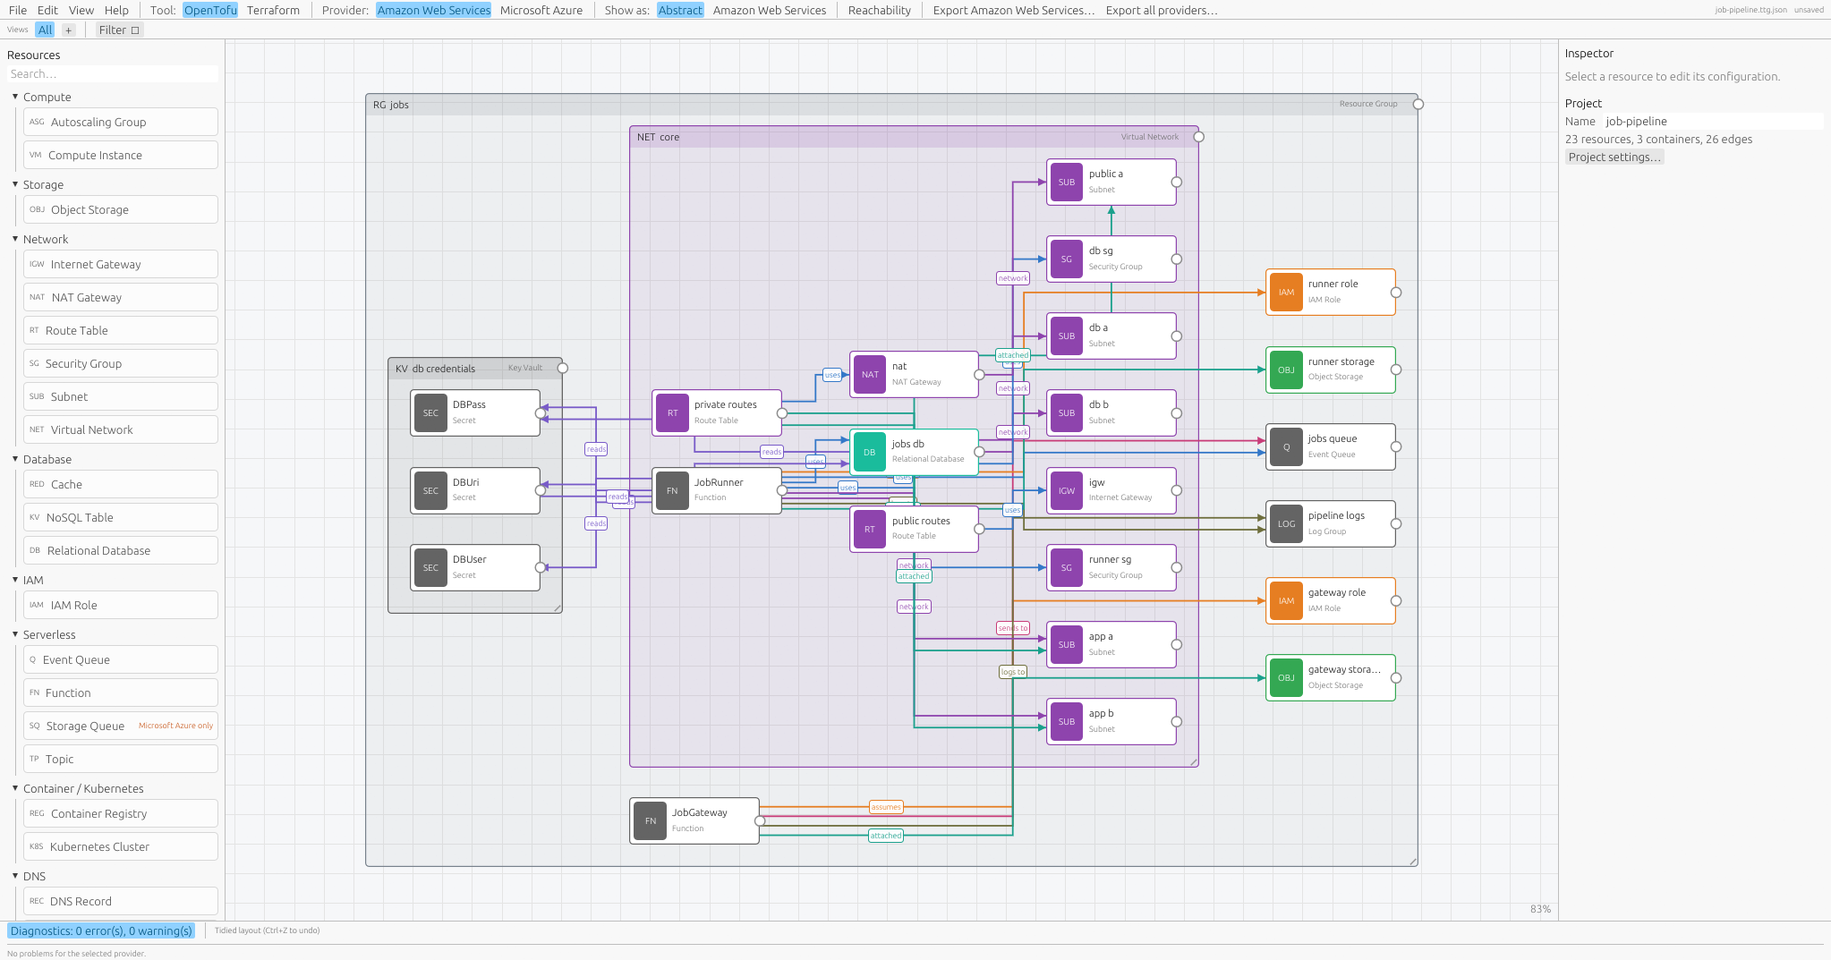
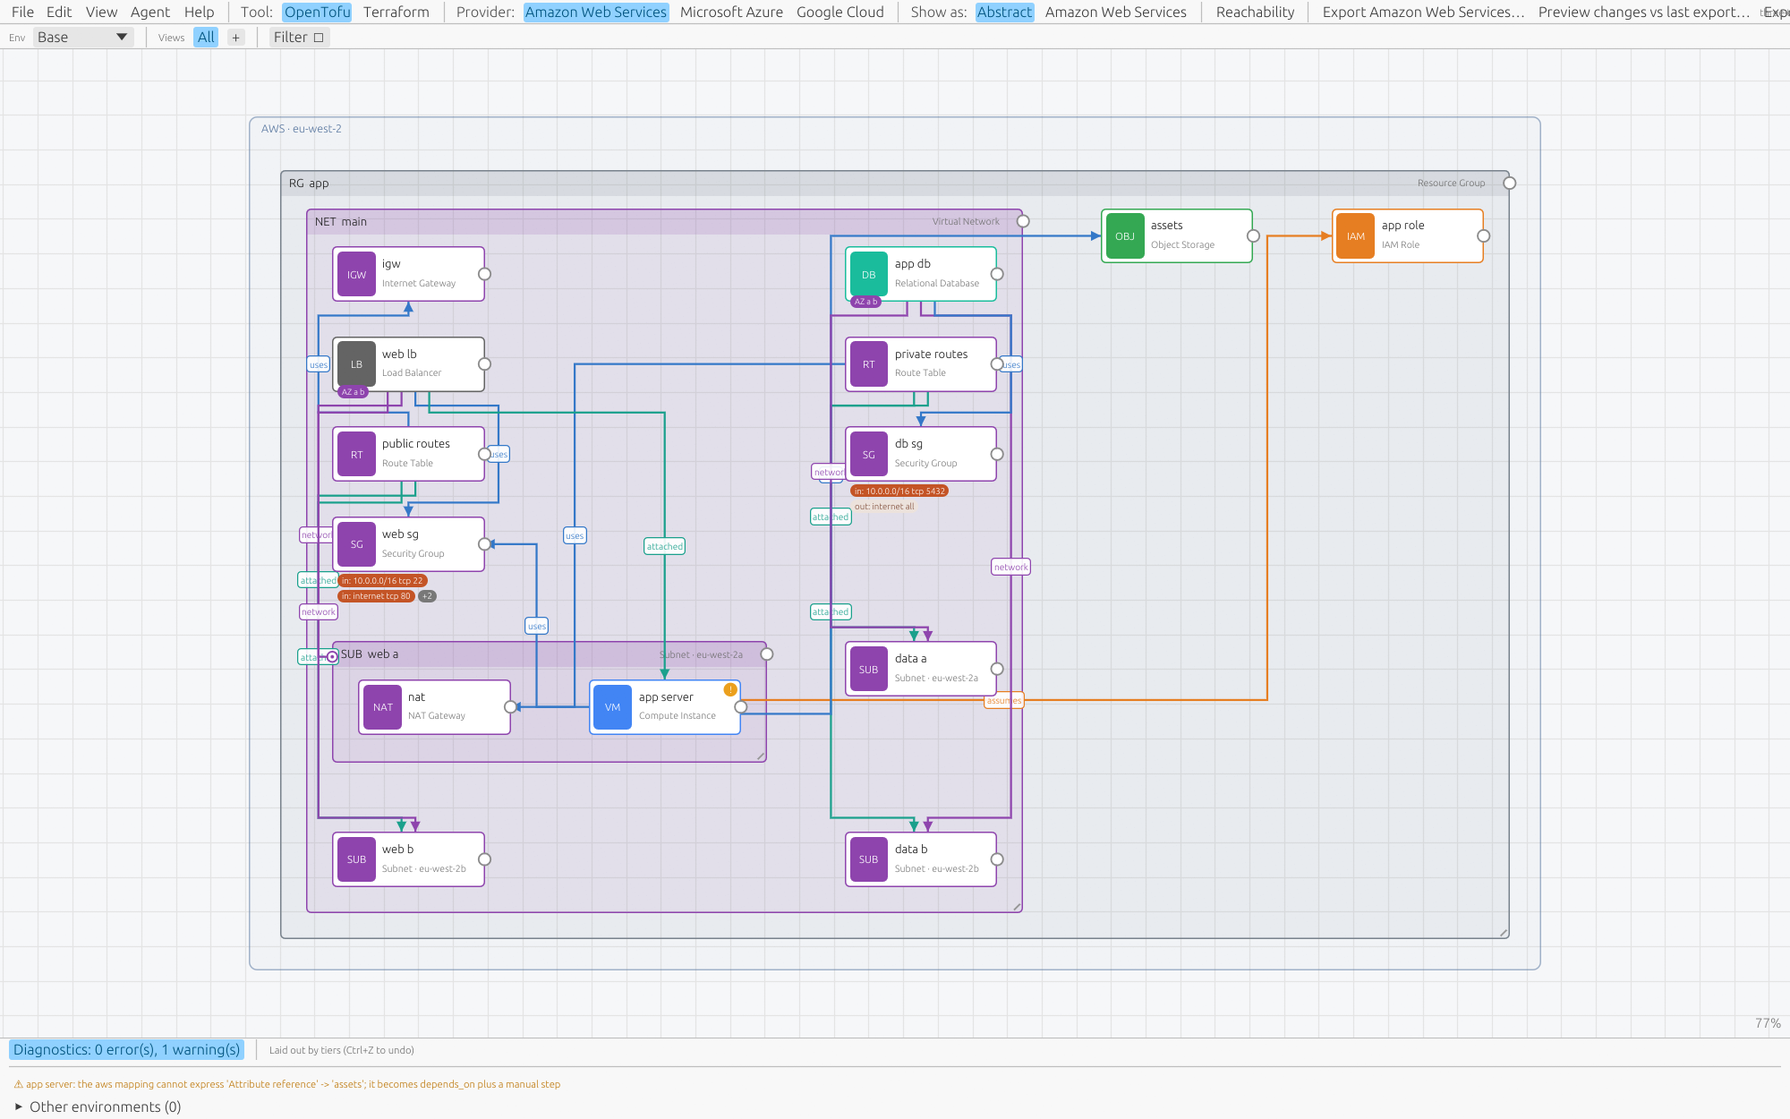
Document subnets holding resources, the tier layout and the canvas additions
Architecture, mapping format (may_contain, tier and their load checks), the MCP plan and the README describe subnets as boxes, the tier layout, security-group rule edges, the region frame, hidden monitoring links and the Network view; the plan records the canvas round. The tidy screenshot now shows the three-tier example laid out by tiers.

diff --git a/docs/ARCHITECTURE.md b/docs/ARCHITECTURE.md
@@ -131,7 +131,8 @@ All types live in `ttg-core::ir`. Field names below are the serialized names.
   `containers`, plus `providers` = provider layers, `origin` = `all` | `curated` |
   `native`, `types` = abstract type ids, `name_glob` = case-insensitive `*` / `?` glob on
   the display name, `classifications` = only entities classified as one of these, and
-  `hide_edges` to draw no structural links at all);
+  `hide_edges` to draw no structural links at all, `hide_monitoring` to draw none from or
+  to alarms, log groups, audit trails and budgets);
 - an optional `layout` (`positions` / `sizes` keyed by entity id that override the shared
   ones while the view is active);
 - a `description` and a `legend` flag;
@@ -156,6 +157,21 @@ earliest steps drops the flows that close a cycle), the view's grouping boxes as
 swimlanes stacked in the order their members first take part, four barycentre sweeps
 against crossings, and each item aiming for the height of what flows into it; positions
 land in the view's own layout and the boxes are refitted around their members.
+`ttg_core::layout::tidy_tiers` lays a project out in tier bands (edge, public, app, data,
+regional; left to right or top to bottom) crossed by one row per availability zone —
+items in no zone or several share the first row — recursively inside every container and
+every subnet holding resources, each fitted to what it holds; a cell stacks at most six
+items before it wraps. Where each entity goes is `ttg_codegen::canvas`'s business: the
+type's tier (the definition's `tier`, else its category's), a subnet's from what is in
+it or linked to it, a security group's from what carries it, a route table's from its
+subnets, a container's from what it holds, and the row from the zones of the subnets
+it is in. The same module derives what else the canvas shows without storing it:
+security-group rule rows as edges (`rule_edges`: group to group in the direction of the
+traffic, or an `Outside` peer — the internet, a CIDR, an AWS-managed prefix list),
+monitoring links (`is_monitoring_link`, any link from or to the `monitoring` category,
+which the filter's `hide_monitoring` drops), zone badges, the region the provider
+variables name and the alias regions the export's plan sends blocks to
+(`alias_regions`), and the "Network" view preset.
 `ttg_codegen::views` holds the filter evaluation (`visible_set`, used by the canvas, the
 view bar, `view_get` and the CLI alike) and the Markdown / Mermaid flowchart / Mermaid
 `sequenceDiagram` renderers behind `ttg view export` and the `view_export` tool.
@@ -325,6 +341,28 @@ and it is left out of the dependency graph, so two services calling each other i
 Containment creates an *implicit* `network_membership` edge from child to container when the
 definition marks the relation `via_parent = true`. Explicit edges are still allowed for the cases
 where drawing a node inside a container is not what the user wants.
+
+**Subnets hold nodes.** A Subnet stays a node, but its definition says `may_contain = true`
+(MAPPING_FORMAT.md §1): a node whose type lists `subnet` in `allowed_parents` and has a
+`via_parent` `network_membership` relation to it may have the subnet as its `parent` —
+VPC › subnet › service. Only nodes go inside a node, one level deep (`Project::set_parent`
+and `validate::structural` hold the structure, the catalog the types). `Project::ancestors`
+passes through the subnet to the containers above it, so `ancestor` sources and required
+ancestors see the network and resource group as before; `parent_chain` lists the subnet
+too, and `diagnostics::relation_targets` finds it there, so the subnet a resource is drawn
+inside is its membership target exactly as a link would make it — for a `many` relation in
+addition to its links, the enclosing subnet first. Being a node rather than a container is
+what keeps every existing project exporting byte for byte as before: making Subnet a
+container would have moved every subnet from `nodes` to `containers`, and the export's
+block order follows the dependency graph, which is built containers first. A test moves
+every subnet-linked resource of nine examples into its subnet and checks that the export
+declares the same blocks with the same arguments (their order in a file may differ: a link
+and a containment enter the dependency walk at different points), that diagnostics are
+identical and reachability unchanged, on all three providers. The canvas draws a subnet
+holding resources as a box (`Project::is_box`) with them inside, fits it when something
+moves in or out (`layout::fit_host`) and turns it back into a plain node when it is empty;
+an environment's overrides apply to it as to any node, and a subnet absent from an
+environment leaves what it held one level up.
 
 ### 4.5 Validation (`ttg-core::validate`)
 
@@ -968,6 +1006,8 @@ badges on the entities until the next edit.
 | `views.rs` | the view bar (tabs, description, legend toggle, annotation buttons), the filter menu, and the per-frame visible set (`ttg_codegen::views::visible_set` plus the "a fitted container with no visible members is not drawn" rule) |
 | `annotations.rs` | drawing and editing a view's groups, flows, notes and logical nodes; the legend panel (and the strip of the canvas "zoom to fit" leaves it); geometry delegated to `ttg_core::view`. Flows fan out along a shared side, follow `canvas::routed_path` when *Route around nodes* is on, and place their labels clear of nodes, badges and each other — along the arrow first, then stepped off it on a leader line |
 | `view_tools.rs` | the View menu's view tools (flows from links, tidy by flows, arrange notes, "Where personal data goes") as single undo steps, and presentation mode: the step state, its keys and the caption |
+| `rule_edges.rs` | security-group rules on the canvas: dashed labelled arrows between the groups or the resources carrying them, `in:` / `out:` badges for address rules, selecting one marks its row in the inspector |
+| `region.rs` | the region frame around the drawing ("AWS · eu-west-2", plus the alias regions in use); never an entity, never exported |
 | `camera.rs` | world/screen transform, zoom-about-pointer, zoom-to-fit |
 | `history.rs` | snapshot-based undo/redo (the project is small; a clone per committed action is simpler and safer than command objects) |
 

diff --git a/README.md b/README.md
@@ -178,14 +178,42 @@ OpenTofu installed, so a definition change that produces invalid HCL fails the b
   other end sits, so a node inside a subnet linking to its VNet stays a short line.
 - A link that containment already implies (a subnet drawn inside its network) is not
   drawn and is reported as an info diagnostic; the canvas refuses to create new ones.
+- **Subnets hold what runs in them.** Drag an instance, load balancer, database,
+  container app or job, function, cache, file system, cluster, node pool, NAT gateway
+  or private endpoint onto a subnet and it goes inside; the subnet becomes a box around
+  it (VPC › subnet › service) and goes back to a plain node when it is empty. Being
+  inside *is* the subnet link: the export, the diagnostics and reachability treat it
+  exactly like one. Something spanning subnets keeps its links (drawn inside one and
+  linked to another, it is in both) and carries a zone badge such as `AZ a b`; a
+  subnet's own zone is in its subtitle.
+- **Security-group rules are edges**: a rule whose source is another group is a dashed
+  orange arrow from that group to this one, labelled `tcp 5432`; a rule from addresses
+  (the internet, a CIDR, CloudFront's prefix list) is an `in:` badge under the group,
+  and its egress rows muted `out:` badges. Click one to select the group with the rule's
+  row marked in the inspector. *View ▸ Security group rules* draws them between the
+  groups, between the resources carrying them, or not at all; they follow *Hide
+  structural links* and are left out while the filter shows only some link kinds.
+- **Region frame** (View menu): a light frame around the drawing, "AWS · eu-west-2",
+  with any other region the export reaches through an aliased provider named after it
+  ("+ us-east-1 for 2 resources") and those resources badged `us-east-1`. Never an
+  entity, never exported.
+- **View ▸ Hide monitoring links** (also in the filter menu, saved with a view) drops
+  every link from or to an alarm, log group, audit trail or budget, so the fan-out of
+  "watches" and "notifies" lines disappears and the resources stay.
 - Drag the bottom-right corner of a node or container to resize it; the inspector has
   exact width/height fields and a reset for nodes.
 - **Edit ▸ Arrange**: *Tidy layout* (Ctrl+L, also on the canvas and container context
   menus) lays the diagram out in columns, sources on the left and what they depend on
   to the right, recursively inside every container, and fits containers to their
-  contents. Align left/centre/right/top/middle/bottom needs two or more selected
-  items; distribute horizontally/vertically needs three. All undoable. The same layout
-  is available headless with `ttg tidy <project> [--out <file>]`.
+  contents. *Tidy by tiers* lays it out in bands instead — edge (DNS, CDN, WAF,
+  certificates), public (load balancers, gateways, public subnets), application, data
+  (databases, caches, buckets, queues), regional services (identity, secrets, logs,
+  alarms, topics, budgets) — with one row per availability zone so subnet *a* of every
+  tier lines up, inside every network and subnet too; a subnet's tier comes from what
+  is in it, a security group's from what carries it (or *top to bottom*). Align
+  left/centre/right/top/middle/bottom needs two or more selected items;
+  distribute horizontally/vertically needs three. All undoable. The same layouts are
+  available headless with `ttg tidy <project> [--by tiers] [--rows] [--out <file>]`.
 - In the inspector, an abstract field that the selected provider's mapping does not use
   is greyed out; its tooltip says which providers do use it.
 - **Views** (bar above the canvas) turn the wired diagram into architecture maps that
@@ -353,7 +381,7 @@ OpenTofu installed, so a definition change that produces invalid HCL fails the b
 
 ![Concrete display of the fan-out example with the "Messaging" view active](docs/screenshot-concrete.png)
 
-![The job pipeline after Edit ▸ Arrange ▸ Tidy layout](docs/screenshot-tidy.png)
+![The three-tier example after Edit ▸ Arrange ▸ Tidy by tiers: public, application and data bands with one row per availability zone, the app server and NAT gateway drawn inside their subnet, security-group rule badges and the region frame](docs/screenshot-tidy.png)
 
 ![Provider layers: the fan-out example shown as AWS, with the Azure-only Service Bus Namespace dimmed and its contents exported as plain SQS/SNS resources](docs/screenshot-layers.png)
 
@@ -457,8 +485,11 @@ disturbing the drawing on it, `view_update { filter }` does the same by name, an
 height }` let it look at what it drew — the window is resized for the capture and put
 back, so a big view is readable however small the window was. `view_generate { kind:
 "data_flow" }` derives a view's flows from the links and `{ kind: "personal_data" }`
-builds "Where personal data goes"; `layout_tidy { view, by: "flows" }` lays a view out by
-its flows and `view_arrange_notes` puts its notes back beside their anchors;
+builds "Where personal data goes", `{ kind: "network" }` a "Network" view laid out by
+tiers; `layout_tidy { view, by: "flows" }` lays a view out by its flows, `layout_tidy {
+by: "tiers", direction, tiers }` by tiers (with per-entity overrides), and
+`view_arrange_notes` puts its notes back beside their anchors; `entity_set_parent` puts
+a resource inside a subnet;
 `view_export { format: "sequence" }` gives the steps as a sequence diagram; and
 `entity_update` (one entity or a `select`) takes `classification`, `description` and
 `owner`.

diff --git a/docs/PHASE2_PLAN.md b/docs/PHASE2_PLAN.md
@@ -1144,6 +1144,55 @@ secret (or flagging it external) gives one error per `$raw` that names it.
 spliced into a `$raw`, and a log group referenced only from a `$raw`, so the validate
 suite exercises them on every provider.
 
+## Round 4: canvas (zipOS feedback TF-002, TF-003 (2), TF-023)
+
+The zipOS build could not draw VPC › subnet › ECS service (a subnet was a node whose only
+parent is a network), saw its per-AZ placement only in the inspector, had no region on
+the canvas, saw security-group rules only as port tags, and at 48 nodes found the tidy
+layout unreadable: a few tall dependency columns with seven alarms' lines fanned across
+the whole canvas.
+
+- **Subnets hold resources** (TF-002) — `subnet.toml` says `may_contain = true`; the
+  thirteen types with a `network_membership` relation to subnets list `subnet` in
+  `allowed_parents` and mark that relation `via_parent`. Being drawn inside a subnet is
+  then that link for the export, the diagnostics and reachability (one resolver,
+  `diagnostics::relation_targets`; for a `many` relation it adds to the links). The
+  subnet stays a node — the alternative, making it a container, would have moved every
+  subnet in every project file from `nodes` to `containers` and, because the export walks
+  the dependency graph containers first, reordered the blocks of existing exports; as a
+  node, every example and the zipOS graph export byte for byte as before (checked
+  against the base build on all three providers). `Project::ancestors` passes through a
+  subnet, so Azure's resource-group ancestry and required ancestors are untouched; only
+  nodes go inside a node, one level deep. The canvas draws a subnet holding something as
+  a box, fits it as things move in and out and makes it a node again when empty;
+  `entity_set_parent` takes a subnet and says what being inside `implies`. Spanning
+  resources keep their links and carry an `AZ a b` badge; a subnet's zone is in its
+  subtitle. Environment overrides on a subnet apply as on any node.
+- **Region frame** (TF-002) — a read-only frame around the drawing, "AWS · eu-west-2",
+  naming the other regions the export reaches through an aliased provider ("+ us-east-1
+  for 2 resources", from the export's plan), whose resources are badged with it. View
+  menu toggle, remembered; never an entity, never exported.
+- **Security-group rules as edges** (TF-003 (2)) — `canvas::rule_edges` turns each rule
+  row into a dashed orange arrow from the source group to the group (egress: the other
+  way), labelled `tcp 5432`, or an `in:` / `out:` badge for the internet, a CIDR or an
+  AWS-managed prefix list (CloudFront). Between the groups or between the resources
+  carrying them (View menu); selecting one selects the group and marks the row in the
+  inspector. They follow *Hide structural links* and a relation filter.
+- **Tier layout and monitoring links** (TF-023) — `layout_tidy { by: "tiers" }`, `ttg
+  tidy --by tiers` and Edit ▸ Arrange ▸ *Tidy by tiers*: bands edge / public / app /
+  data / regional (left to right or top to bottom), one row per availability zone so the
+  `a` subnets of every tier line up, recursively inside networks and subnets. A type's
+  band is its definition's `tier` (new, v2), else its category's; subnets, security
+  groups, route tables and containers take theirs from what they hold or serve; the agent
+  can override per entity. The filter's `hide_monitoring` (View ▸ *Hide monitoring
+  links*) drops every link from or to an alarm, log group, audit trail or budget.
+  `view_generate { kind: "network" }` (and the View menu) builds a "Network" view laid
+  out by tiers with monitoring links hidden.
+
+Also: `--screenshot` no longer saves the app's settings (edge style, display mode, MCP
+autostart, recent files), and a link to a box too thin for its margins at a small zoom
+no longer panics.
+
 ## Round 3: environments and plan (gap report R3.11, R3.13; zipOS TF-012)
 
 A pilot and a production CallScope differed in about ten values and were two diagrams;

diff --git a/docs/MCP_PLAN.md b/docs/MCP_PLAN.md
@@ -120,7 +120,9 @@ two lists are kept apart so an agent cannot mistake "blocks the export I am maki
 Write (each undoable): `entity_add`, `entity_update` (values validated against the
 definition, unknown fields rejected with the list of valid ones), `entity_move`,
 `entity_resize`, `entity_set_parent` (allowed-parent check, moves the entity inside the
-container visually), `entity_delete`, `link_add` (relation must be allowed by the
+container visually; a subnet takes the resources whose type has a `via_parent` membership
+relation to it, becomes a box around them, and the reply lists what being inside
+`implies`), `entity_delete`, `link_add` (relation must be allowed by the
 definition; redundant containment links refused with the same message as the UI),
 `link_remove`, `selection_set`, `view_set`, `view_save`, `view_delete`, `view_activate`,
 `view_group_add`, `view_flow_add`, `view_annotation_remove` (architecture-map
@@ -189,9 +191,15 @@ removing the resource-to-resource flows; the reply lists what was added, and a
 generation that changes nothing records no undo step. `personal_data` builds or
 refreshes "Where personal data goes" and switches to it. `view_arrange_notes { view? }`
 puts anchored notes back beside their anchors (`ttg_core::view::arrange_notes`, the same
-placement `view_note_add` uses). `layout_tidy` takes `view` and `by: links | flows`:
-`flows` is `ttg_core::flow_layout`, written into the view's own layout only, and either
-way a tidied view gets its notes rearranged in the same undo step. `view_fit` reports
+placement `view_note_add` uses). `layout_tidy` takes `view` and `by: links | flows |
+tiers`: `flows` is `ttg_core::flow_layout`, written into the view's own layout only;
+`tiers` is `ttg_codegen::canvas::tidy_by_tiers` (bands edge / public / app / data /
+regional, one row per availability zone), with `direction: columns | rows` and `tiers: {
+entity: tier }` overriding the derived band, and its reply lists the entities per band;
+either way a tidied view gets its notes rearranged in the same undo step.
+`view_generate { kind: "network" }` builds or refreshes the "Network" view (network,
+load balancer, compute, container and database categories, `hide_monitoring` on) and
+lays it out by tiers in its own layout. The view filter takes `hide_monitoring`. `view_fit` reports
 `legend_reserved_px`: with the legend on, the fit leaves its strip on the right free, so
 a fitted screenshot never has content under it. `view_export` takes `format: sequence`
 (a Mermaid `sequenceDiagram` of the numbered flows). `entity_update` takes
@@ -502,8 +510,13 @@ dropped-caller rule (fresh and deferred), the heartbeat, the screenshot size cla
 selectors and the quiet flag. `headless_cost_estimate` covers the three groupings on
 job-pipeline (whose one view has four groups), a one-call assumption moving the total
 and reported as `call`, the environment note and an explicit region, each refusal, and
-that the revision does not move. All run in CI on the same job as the rest of
-the workspace.
+that the revision does not move. `headless_subnets_hold_resources_and_tiers_lay_out`
+puts the three-tier app server inside its subnet (`implies` network membership, the link
+removed without a diagnostic, the instance still in that subnet in the export, the
+subnet a box around it), refuses a bucket and a subnet there, lays the project out by
+tiers both ways (load balancer before database, an override moving the bucket to the
+edge band, the same call twice giving the same layout, four bad calls refused) and
+builds the "Network" view. All run in CI on the same job as the rest of the workspace.
 
 ## 5. Remote access and sign-in (round 4, TF-001)
 

diff --git a/docs/MAPPING_FORMAT.md b/docs/MAPPING_FORMAT.md
@@ -27,11 +27,35 @@ allowed_parents = ["virtual_network"] # container types this may be drawn inside
 icon = "SUB"                          # short glyph shown on the canvas
 env_prefix = "QUEUE"                  # v2, optional: first word of a Kubernetes workload's
                                       # environment variables for this type (§2.7)
+may_contain = true                    # v2, nodes only: other nodes may be drawn inside it
+tier = "public"                       # v2, optional: band of the tier layout
 ```
 
 Categories in use: `compute`, `storage`, `network`, `database`, `iam`, `serverless`,
 `container`, `dns`, `load_balancer`, `secrets`, `monitoring`, `organization`
 (grouping containers such as Resource Group / Project).
+
+**Nodes that hold nodes (v2).** `may_contain = true` lets a *node* type hold others on
+the canvas without becoming a container: a Subnet holds the instance, load balancer or
+database that runs in it, and its own export does not change at all. A type that may be
+drawn inside it lists it in `allowed_parents` **and** has a `via_parent = true` relation
+targeting it (`network_membership` → `subnet`), so being inside means exactly what a link
+would: the resolver (`diagnostics::relation_targets`) finds the enclosing subnet when no
+link exists, and for a `many` relation adds it to the linked ones (inside one subnet,
+linked to another: in both, the enclosing one first). Only nodes go inside a node, one
+level deep, and the loader refuses `may_contain` on a container, an `allowed_parents`
+entry that is a node without `may_contain`, a node parent without a `via_parent` relation
+to it, and a `via_parent` relation whose targets are neither containers nor
+`may_contain` nodes.
+
+**Tiers (v2).** `tier` places the type in the tier layout (`layout_tidy { by: "tiers" }`,
+Edit ▸ Arrange ▸ *Tidy by tiers*): `edge`, `public`, `app`, `data` or `regional`. Without
+it the category decides: `dns` → edge; `network`, `load_balancer` → public; `database`,
+`storage` → data; `iam`, `secrets`, `monitoring`, `organization` → regional; anything
+else → app. Native types are placed by words in their Terraform type (`aws_lb` public,
+`aws_db_instance` data, `aws_ecs_service` app, `aws_iam_role` regional). Subnets,
+security groups, route tables and containers are placed by what they hold or serve, not
+by their type (`ttg_codegen::canvas::tiers`). The tier changes only the layout.
 
 ### 1.1 Abstract fields
 
